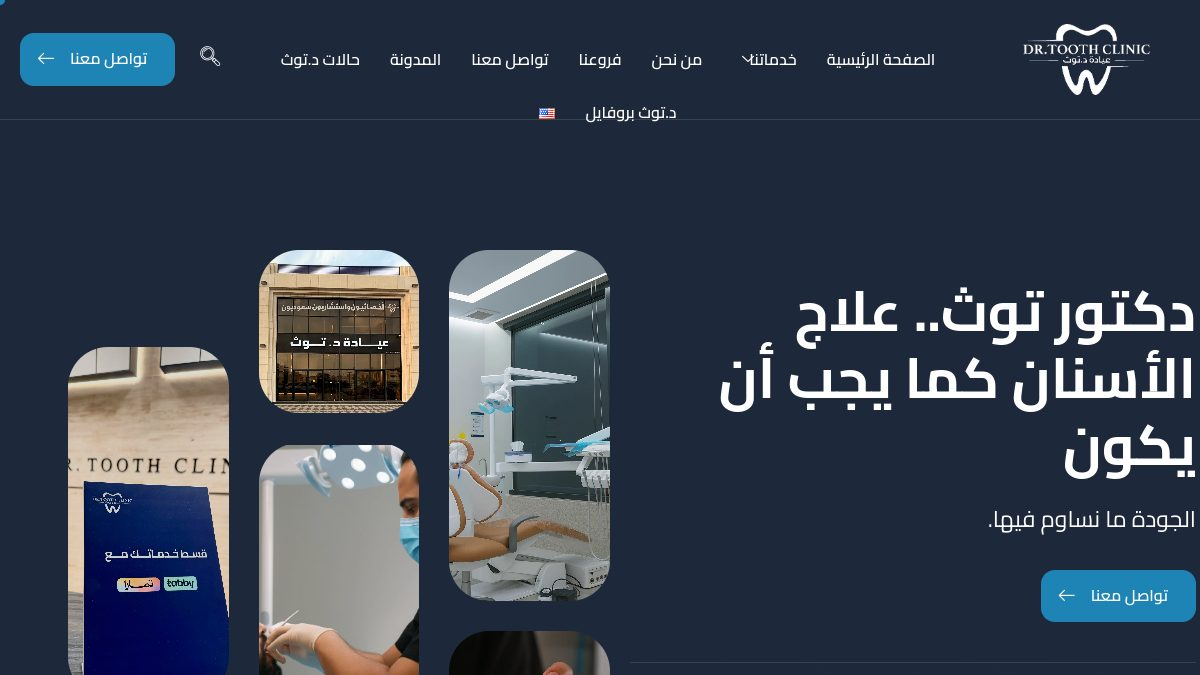
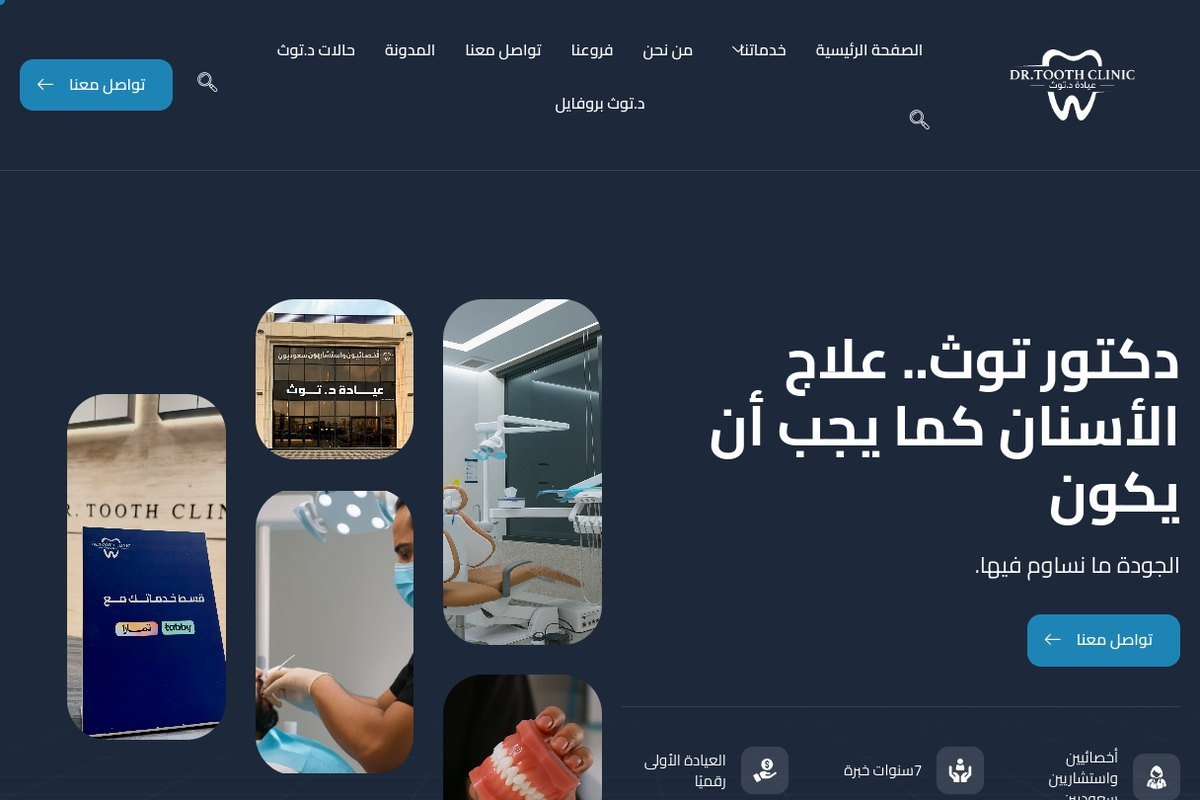
Use branded portfolio images from source site; hide why-us on mobile/tablet; zuwar app screen object-top

diff --git a/index.html b/index.html
@@ -367,7 +367,7 @@
 </div>
 </section>
 <!-- WHY CHOOSE US SECTION (Concise & Punchy) -->
-<section class="w-full bg-white py-20 border-y border-slate-200/80 relative" id="why-us">
+<section class="hidden lg:block w-full bg-white py-20 border-y border-slate-200/80 relative" id="why-us">
 <div class="w-full max-w-[1440px] mx-auto px-6 md:px-12">
 <div class="flex flex-col items-center text-center max-w-2xl mx-auto mb-14">
 <span class="hidden md:inline-block text-xs font-bold uppercase tracking-wider text-[#0e4b59] px-3.5 py-1 rounded-full bg-teal-50 border border-teal-200 mb-3">
@@ -467,7 +467,7 @@
 <div class="mb-10">
 <div class="group rounded-2xl bg-white border border-slate-200 overflow-hidden shadow-sm hover:shadow-xl hover:border-orange-300 transition-all duration-300 grid grid-cols-1 lg:grid-cols-12">
 <div class="relative h-64 lg:h-auto lg:col-span-5 bg-slate-900 overflow-hidden flex items-center justify-center">
-<img alt="Zuwar Restaurant &amp; Cafe luxury dining app showcase" class="w-full h-full object-cover group-hover:scale-105 transition-transform duration-500" src="pf-zuwar.jpg">
+<img alt="Zuwar Restaurant &amp; Cafe luxury dining app showcase" class="w-full h-full object-cover object-top group-hover:scale-105 transition-transform duration-500" src="pf-zuwar.jpg">
 <div class="absolute top-4 left-4 flex gap-2">
 <span class="text-[11px] px-3 py-1 rounded-full bg-[#ea580c] text-white font-bold uppercase shadow-sm">Featured</span>
 <span class="text-[11px] px-3 py-1 rounded-full bg-white/90 backdrop-blur-sm text-slate-800 font-bold uppercase">Hebron, PS</span>
